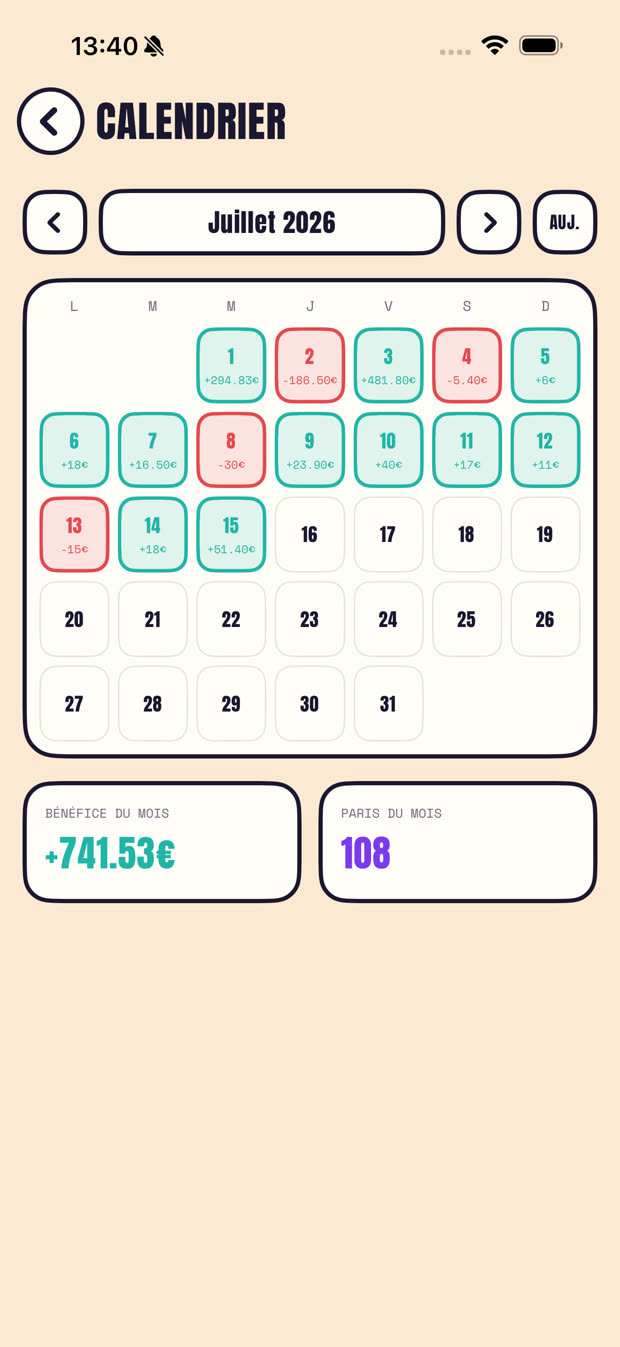
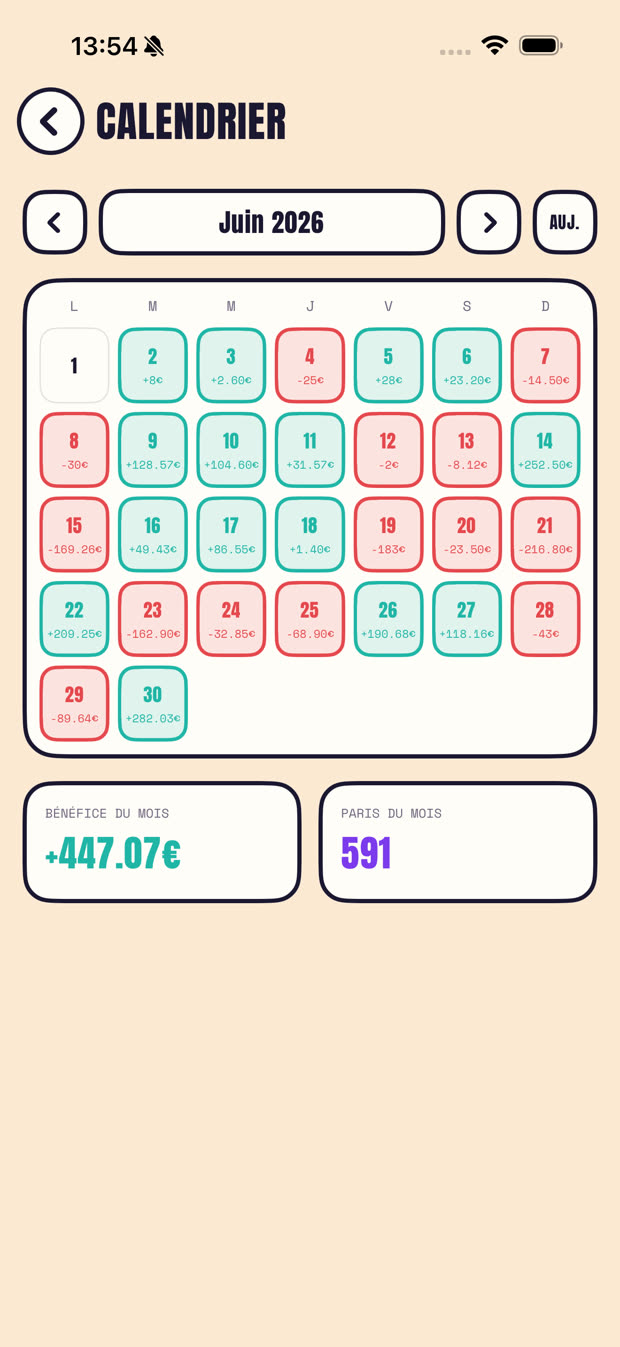
Snap retiré, parallax léger, trio de thèmes (+ parquet basket), calendrier de juin, pièce à J
- scroll-snap supprimé (désagréable au trackpad), remplacé par un parallax discret :
  les téléphones dérivent lentement au scroll (rAF, propriété translate pour composer
  avec les rotations, coupé si reduced-motion ou mobile).
- 3e fond dans la section thèmes : parquet basket (équipé dans l'app puis capturé).
- Calendrier : juin 2026 intégralement rempli (2e import CSV de 15 paris + historique),
  +447,07€ et 591 paris affichés.
- LES JETONS : l'emoji remplacé par la pièce dorée à J de l'app, recréée en CSS.

diff --git a/index.html b/index.html
@@ -136,7 +136,7 @@
     <div class="block-copy rv">
       <span class="kicker">JOUR PAR JOUR</span>
       <h2>Le calendrier des gains</h2>
-      <p>Tes journées vertes et tes journées rouges, mois par mois, comme un vrai bilan de trader. Et dans « Tous mes paris » : recherche, filtres par statut, sport ou bookmaker, tri par plus grosse cote ou plus gros gain. <strong>Rien ne se perd, jamais.</strong></p>
+      <p>Tes journées vertes et tes journées rouges, mois par mois, comme un vrai bilan de trader. Remonte les mois passés en un tap. Et dans « Tous mes paris » : recherche, filtres par statut, sport ou bookmaker, tri par plus grosse cote ou plus gros gain. <strong>Rien ne se perd, jamais.</strong></p>
     </div>
   </div>
 </section>
@@ -158,6 +158,7 @@
   <div class="in">
     <div class="duo rv">
       <div class="phone tilt-l"><img src="img/s-theme-foot.jpg" alt="Le feed avec le fond terrain de foot" loading="lazy" width="620" height="1347"></div>
+      <div class="phone tilt-c"><img src="img/s-theme-basket.jpg" alt="Le feed avec le fond parquet basket" loading="lazy" width="620" height="1347"></div>
       <div class="phone tilt-r"><img src="img/s-theme-nuit.jpg" alt="Le profil avec le thème stade de nuit" loading="lazy" width="620" height="1347"></div>
     </div>
     <div class="block-copy rv">
@@ -180,7 +181,7 @@
   <div class="in">
     <h2 class="rv">Et ce n'est pas tout</h2>
     <div class="mosaic">
-      <div class="tile t1 rv"><div class="emo">🪙</div><h3>Les jetons</h3><p>Bonus quotidien, séries de connexion, défis vérifiés serveur. Une monnaie de jeu 100% gratuite, jamais d'argent réel.</p></div>
+      <div class="tile t1 rv"><div class="emo"><span class="jcoin">J</span></div><h3>Les jetons</h3><p>Bonus quotidien, séries de connexion, défis vérifiés serveur. Une monnaie de jeu 100% gratuite, jamais d'argent réel.</p></div>
       <div class="tile t2 rv"><div class="emo">🛍️</div><h3>La boutique</h3><p>Cadres d'avatar animés, titres, thèmes, fonds d'app (stade la nuit, casino, parquet…), compagnons et célébrations.</p></div>
       <div class="tile t3 rv"><div class="emo">🔥</div><h3>Les réactions</h3><p>Chambre ou félicite en un tap. Les abonnés ont 4 réactions animées exclusives : GOAT, LÉGENDE, TACLE, DIAMANT.</p></div>
       <div class="tile t4 rv"><div class="emo">📣</div><h3>Les alertes</h3><p>Cotes boostées et bons plans partagés par tes amis et tes suivis, avec notification. Fini le bon plan raté.</p></div>
@@ -233,6 +234,26 @@
       }), { threshold: 0.14 })
     : null;
   document.querySelectorAll(".rv").forEach((el) => io ? io.observe(el) : el.classList.add("vis"));
+
+  // Parallax discret : les téléphones dérivent lentement par rapport au scroll.
+  const pars = [...document.querySelectorAll(".block .phone, .duo .phone, .hero-stage")];
+  let tick = false;
+  function parallax() {
+    if (tick) return; tick = true;
+    requestAnimationFrame(() => {
+      const vh = innerHeight;
+      pars.forEach((el) => {
+        const r = el.getBoundingClientRect();
+        const c = (r.top + r.height / 2 - vh / 2) / vh;
+        el.style.translate = "0 " + (c * -34).toFixed(1) + "px";
+      });
+      tick = false;
+    });
+  }
+  if (matchMedia("(prefers-reduced-motion: no-preference)").matches && innerWidth > 760) {
+    addEventListener("scroll", parallax, { passive: true });
+    parallax();
+  }
 </script>
 
 </body>

diff --git a/landing.css b/landing.css
@@ -263,12 +263,6 @@ html.js .hero-stage { opacity: 0; transform: scale(0.92) rotate(6deg); animation
 .duo .tilt-r { transform: rotate(5deg) translateX(-14px) translateY(22px); }
 .duo .phone:hover { transform: rotate(0deg) translateY(-6px); z-index: 2; }
 
-/* ---- snap doux (desktop uniquement) ---- */
-@media (min-width: 900px) and (prefers-reduced-motion: no-preference) {
-  html { scroll-snap-type: y proximity; }
-  .block, .how, .more, .last { scroll-snap-align: start; scroll-margin-top: 0px; }
-}
-
 /* ---- responsive mobile affiné ---- */
 @media (max-width: 760px) {
   .in { padding: 0 18px; }
@@ -287,4 +281,18 @@ html.js .hero-stage { opacity: 0; transform: scale(0.92) rotate(6deg); animation
   .last { padding: 64px 0; }
   .duo .phone { width: min(170px, 42vw); }
   .quiet .card { padding: 18px; font-size: 14px; }
+}
+
+/* trio de thèmes */
+.duo .tilt-c { transform: rotate(0deg) translateY(-10px); z-index: 2; }
+@media (min-width: 761px) { .duo .phone { width: min(190px, 30vw); } }
+
+/* la pièce à J de l'app */
+.jcoin {
+  display: inline-flex; align-items: center; justify-content: center;
+  width: 44px; height: 44px; border-radius: 999px;
+  background: radial-gradient(circle at 34% 30%, #FFE28A, var(--gold) 58%, #E5A50A);
+  border: 3px solid var(--ink);
+  font-family: var(--display); font-size: 22px; color: var(--ink);
+  box-shadow: inset -2px -3px 0 rgba(26, 23, 48, 0.22), 2px 3px 0 rgba(26, 23, 48, 0.35);
 }